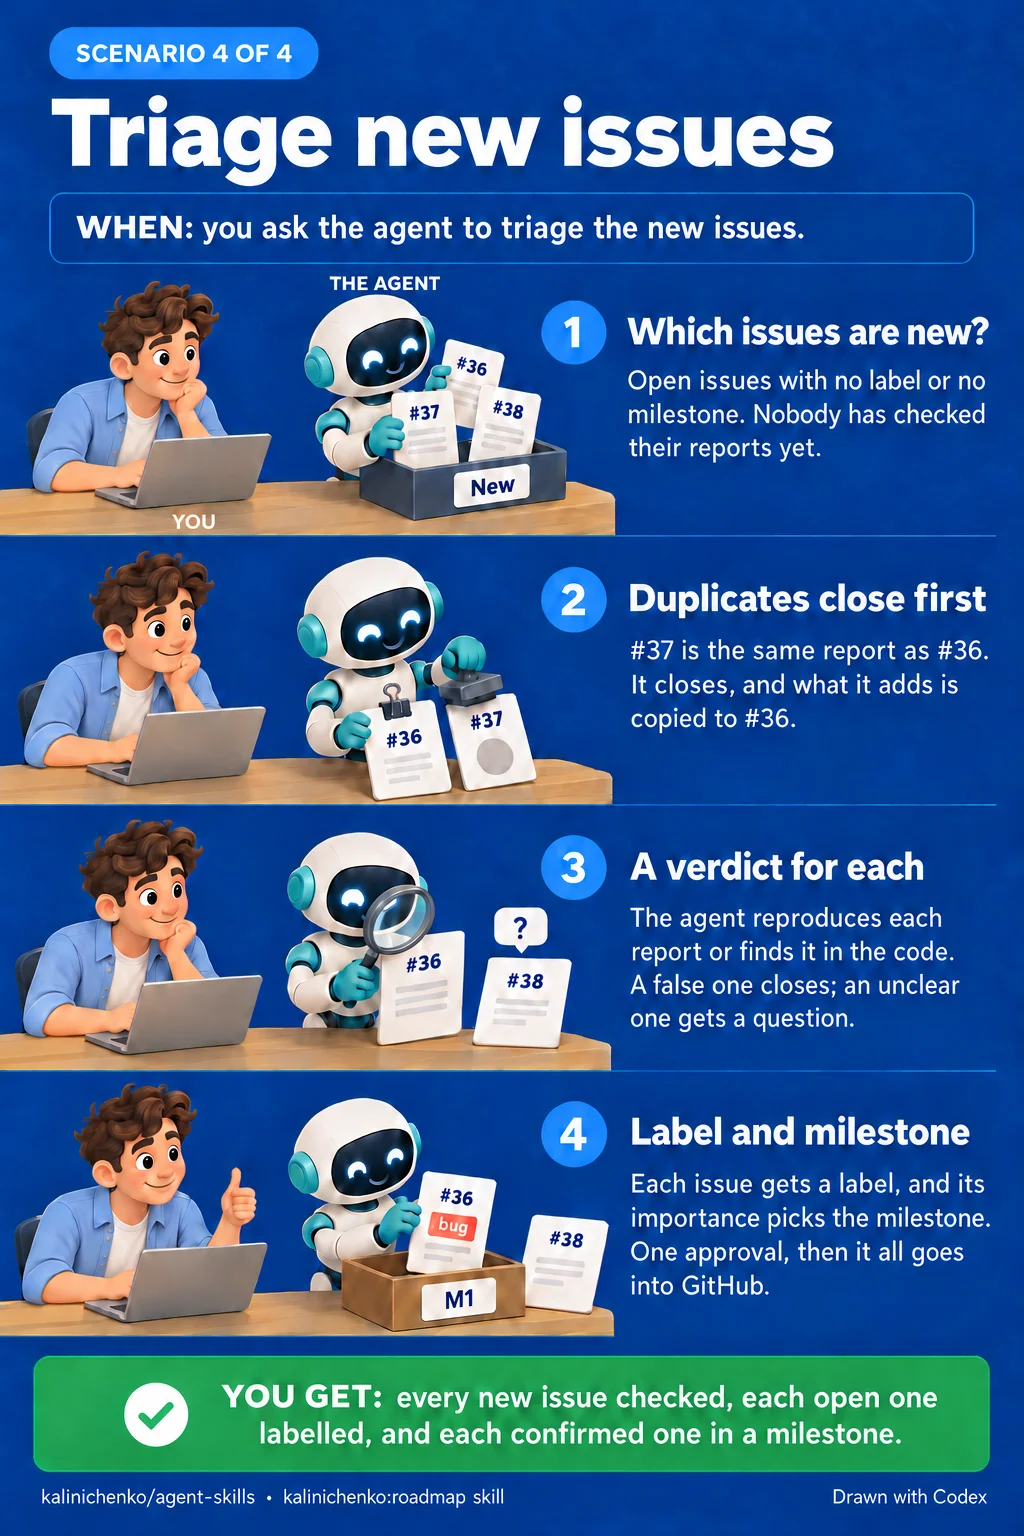
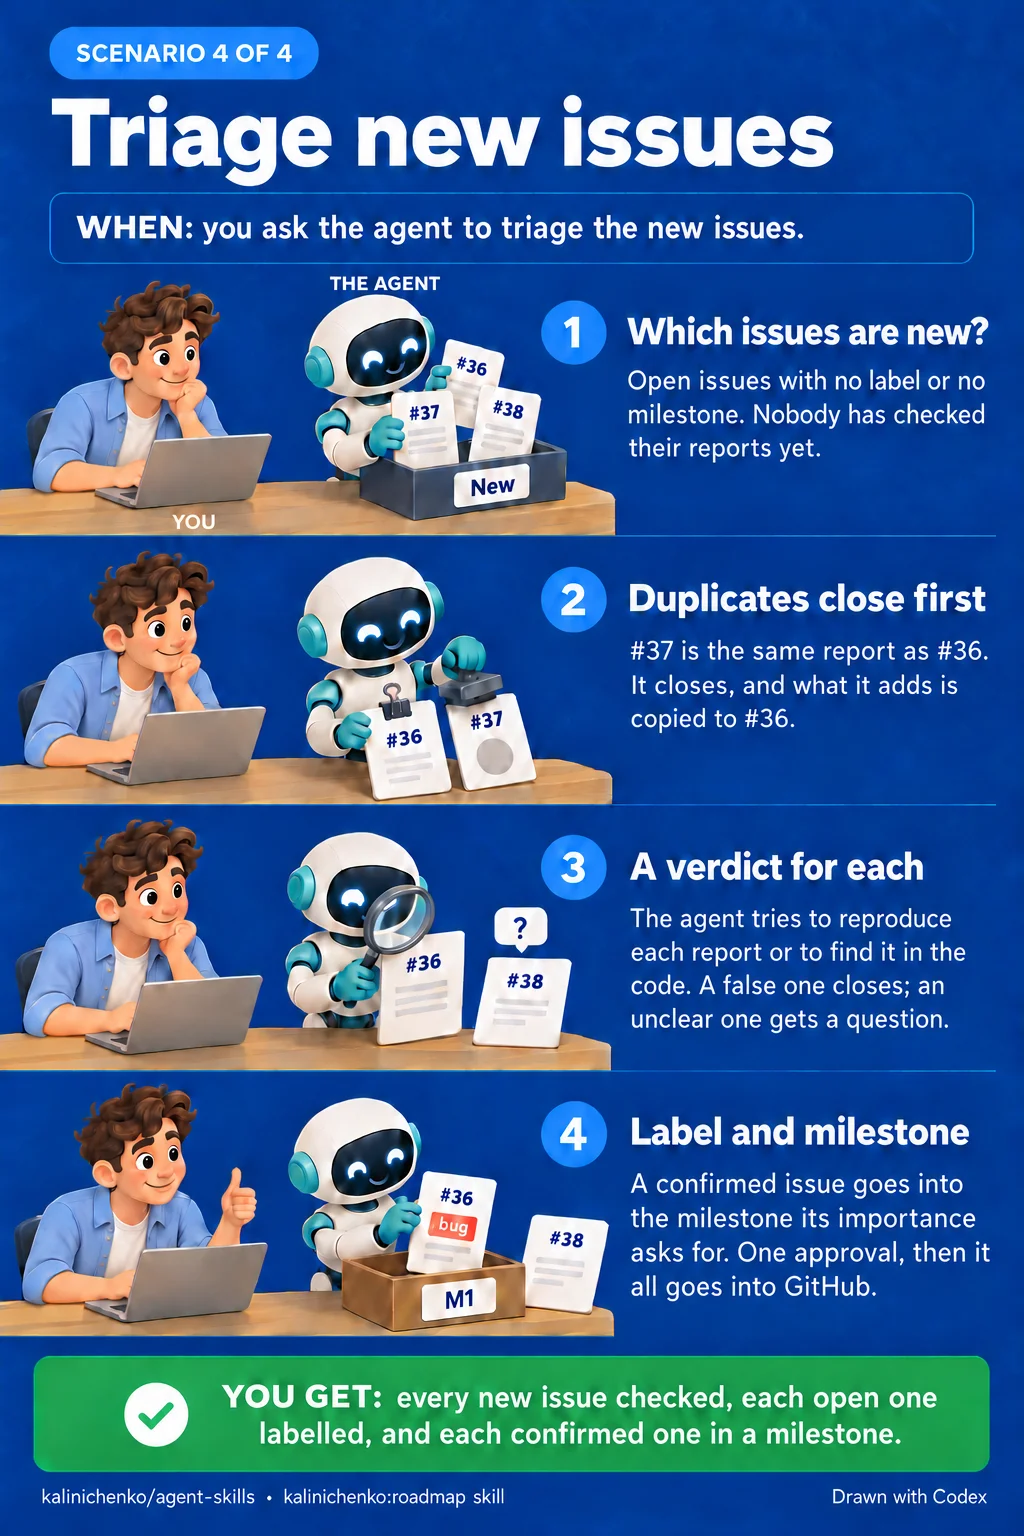
docs(roadmap): make the triage captions agree with the result box
- Scene 4: only a confirmed issue goes into a milestone
- Scene 3: the agent tries to reproduce each report, so a false one can close

diff --git a/docs/roadmap/brief.md b/docs/roadmap/brief.md
@@ -67,8 +67,8 @@ Header: label "SCENARIO 4 OF 4", title "Triage new issues".
 Trigger box: "WHEN: you ask the agent to triage the new issues."
 1. "Which issues are new?" — THE AGENT takes three tickets, "#36", "#37" and "#38", out of a tray labelled "New"; the tickets have no tags; YOU watch. Caption: "Open issues with no label or no milestone. Nobody has checked their reports yet."
 2. "Duplicates close first" — THE AGENT clips ticket "#37" behind ticket "#36" and puts a grey stamp with no text on "#37". Caption: "#37 is the same report as #36. It closes, and what it adds is copied to #36."
-3. "A verdict for each" — THE AGENT looks at ticket "#36" through a large magnifying glass; beside it, ticket "#38" has a small speech bubble with "?"; YOU watch from the laptop. Caption: "The agent reproduces each report or finds it in the code. A false one closes; an unclear one gets a question."
-4. "Label and milestone" — YOU give a thumbs-up; THE AGENT puts ticket "#36", with a small tag "bug", into box "M1"; ticket "#38" waits beside the box. Caption: "Each issue gets a label, and its importance picks the milestone. One approval, then it all goes into GitHub."
+3. "A verdict for each" — THE AGENT looks at ticket "#36" through a large magnifying glass; beside it, ticket "#38" has a small speech bubble with "?"; YOU watch from the laptop. Caption: "The agent tries to reproduce each report or to find it in the code. A false one closes; an unclear one gets a question."
+4. "Label and milestone" — YOU give a thumbs-up; THE AGENT puts ticket "#36", with a small tag "bug", into box "M1"; ticket "#38" waits beside the box. Caption: "A confirmed issue goes into the milestone its importance asks for. One approval, then it all goes into GitHub."
 Result box: "YOU GET: every new issue checked, each open one labelled, and each confirmed one in a milestone."
 </image>
 
